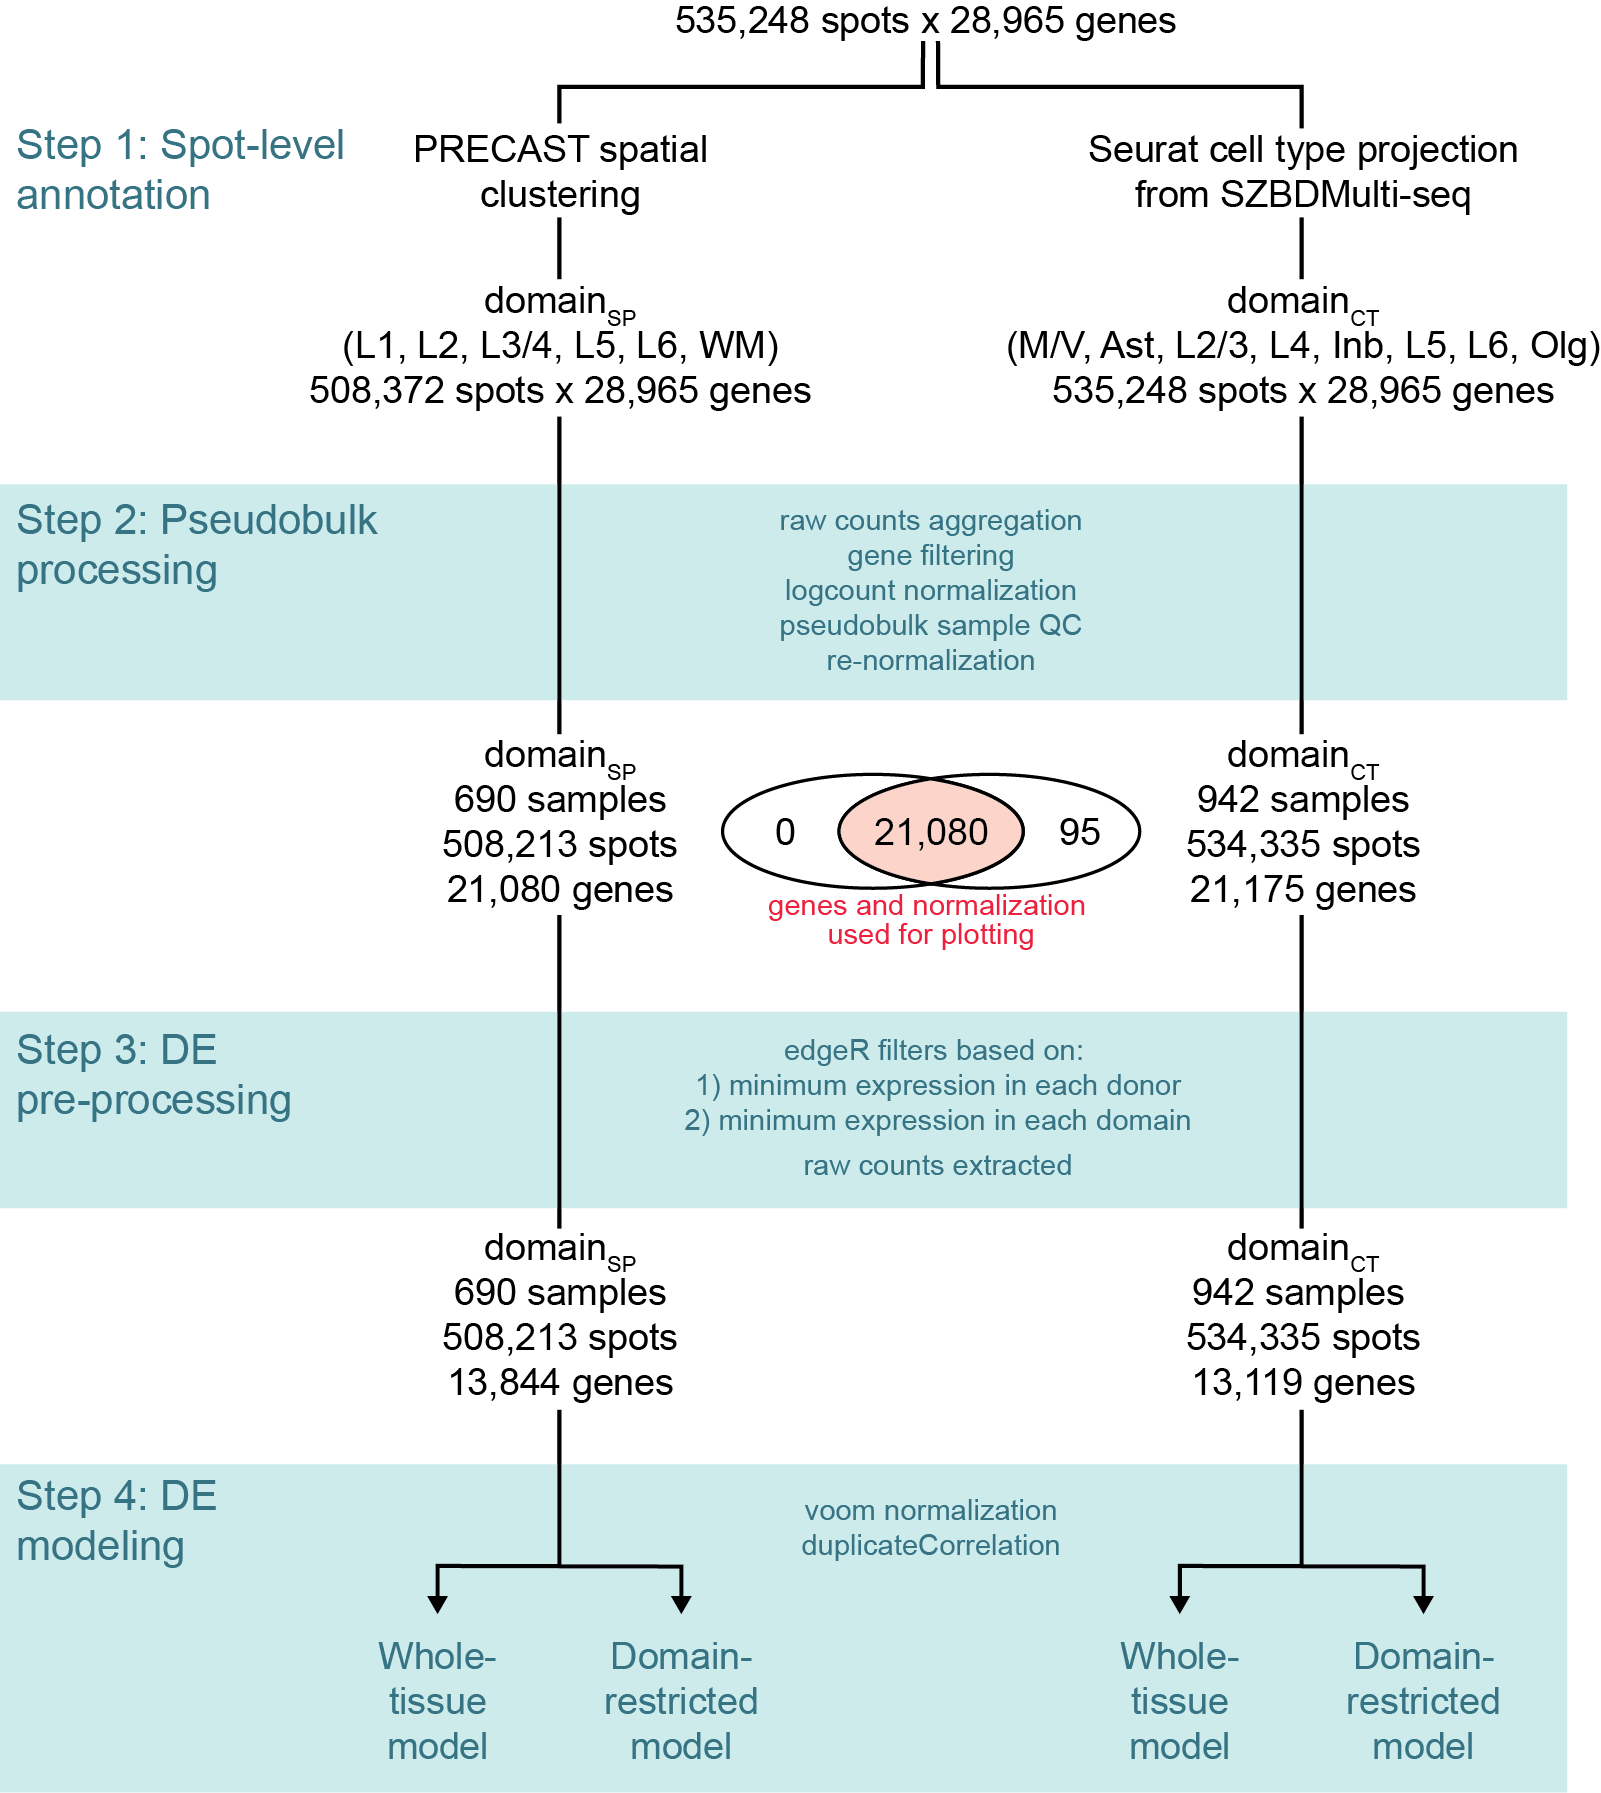
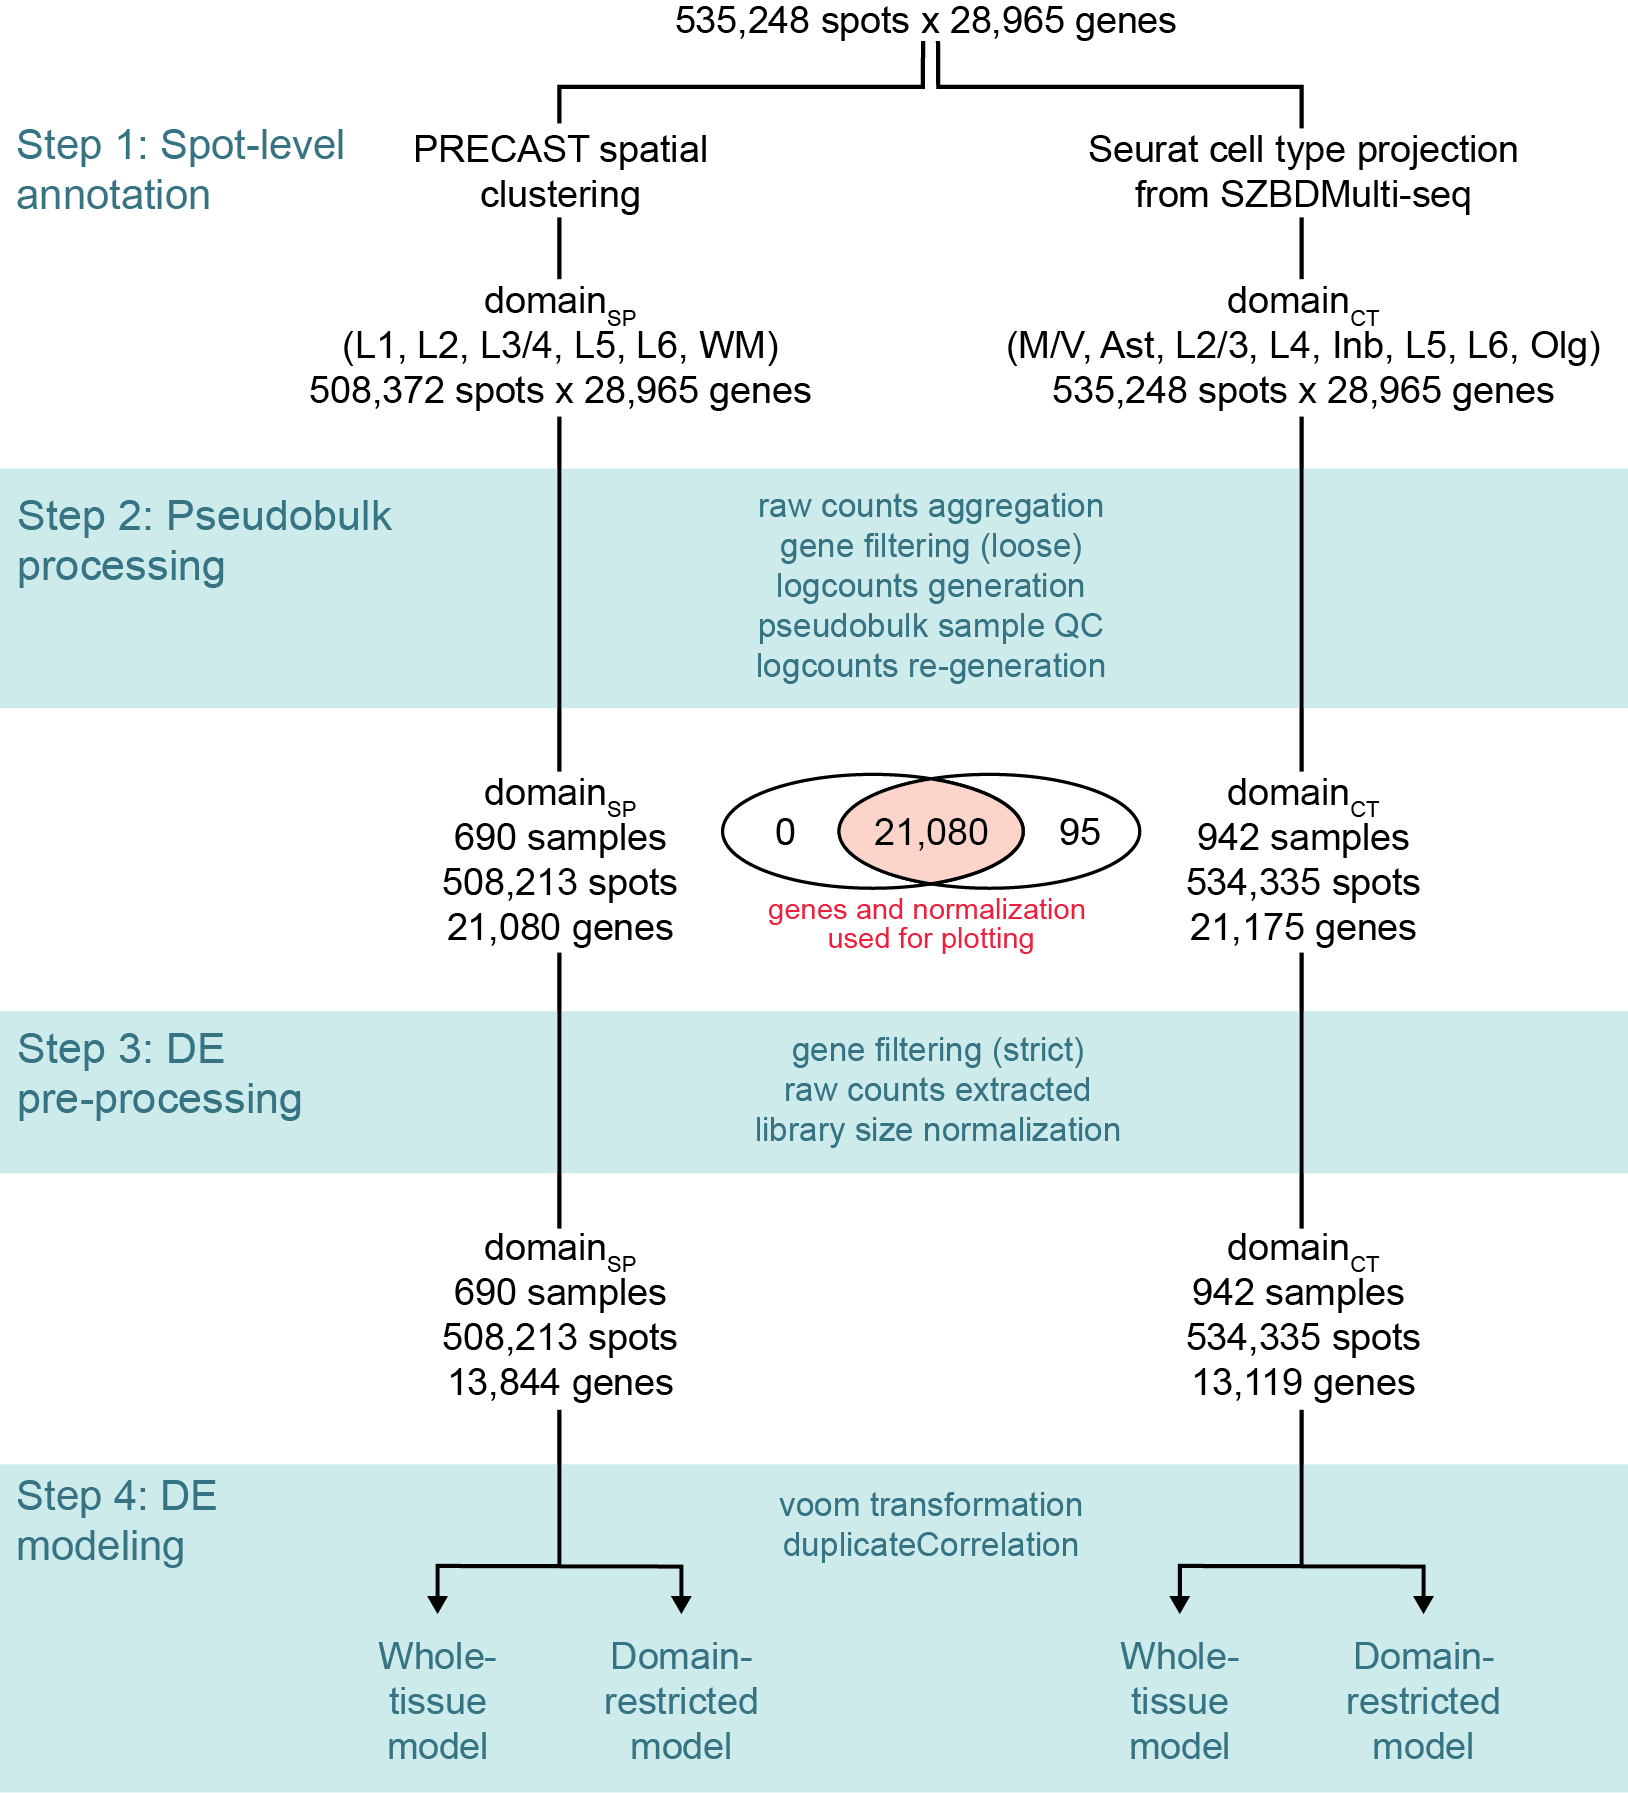
Update MBv shiny app ui, additional markdown files

diff --git a/MBv_companion_shiny/markdown/landingpage.md b/MBv_companion_shiny/markdown/landingpage.md
@@ -1,0 +1,11 @@
+### Study Design
+Major depressive disorder (MDD) and bipolar disorder (BD) exhibit both overlapping and distinct clinical features, including differences in sex prevalence and symptomatology, but how these similarities and differences are reflected at the molecular and cellular level in the human brain remains poorly understood. 
+
+We applied spatial transcriptomics (SRT) in the human dorsolateral prefrontal cortex (dlPFC) of 119 donors that were split into diagnostic groups of neurotypical control (NTC), major depressive disorder (MDD), and bipolar disorder (BD). Our donors were selected to be sex- and age-balanced. SRT was achieved with Visium which provides supra-cellular resolution (55um) sequencing linked with spot-specific barcodes that allow for spatial coordinates to be matched with the RNA expression matrix. 
+
+We used two complementary annotation strategies to extract the biological domains of the dlPFC from spot-level gene expression data. Spatial clustering provided domains that correspond to canonical dlPFC cytoarchitectural layers (domain~SP~). Label projection from snRNAseq cell types provided domains that correspond to major cell type groups (domain~CT~) and allow for characterization of trans-laminar cell types like inhibitory neurons. 
+
+We performed pseudobulking for both annotation strategies and used these pseudobulk samples as input for differential expression (DE) testing. Our implementation of two different models allowed us to test for diagnosis-by-sex group differences across the entire dlPFC tissue section (whole-tissue model) and within specific domains (domain-restricted model). The results of these tests are annotated on the violin plots in the **Pseudobulk Expression Plots** tab and browsable in Supplementary Tables 6 and 7 of our manuscript.
+
+Our DE results were used as filtering criteria several additional analyses that helped us to draw conclusions about how MDD and BD are impacted at the molecular and cellular levels in the dlPFC. The outcomes from co-expression modules, regulon analysis, eQTL, and colocalization analysis are not presented in this companion app, but are relevant to the downstream use of the DE results described here.
+

diff --git a/MBv_companion_shiny/markdown/methods_2.md b/MBv_companion_shiny/markdown/methods_2.md
@@ -1,0 +1,7 @@
+Pseudobulk datasets were generated for both the domain~SP~ and domain~CT~ annotation sets by aggregating the raw counts within each annotated domain within each donor. This created different numbers of pseudobulk samples between the two annotation strategies owing to the different number of domains labeled per donor (domain~SP~ *k*=6, domain~CT~ *k*=8).
+
+Prior to counts matrix normalization and transformation, we performed gene filtering. We removed genes from the mitochondrial genome (which helps with normalization) and we also removed some lowly expressed genes with <a href="https://rdrr.io/bioc/edgeR/man/filterByExpr.html" target="_blank">edgeR</a>. Slightly different sets of genes were identified as lowly expressed between the two annotation datasets, given the unique cell populations captured with the two strategies. At this stage many lowly expressed genes were retained because they were abundantly expressed in the dlPFC snRNAseq dataset we used (SZBDMulti-seq). This was necessary to obtain enrichment *t*-test statistics in our SRT pseudobulk that we used to compare with snRNAseq.
+
+Quality control (QC) was then performed on pseudobulk samples, and afterward raw counts were re-normalized since the removal of samples during QC slightly impacts `edgeR` normalization factor calculation and subsequent logcounts values. 
+
+After pseudobulk processing, 21,080 genes were shared across the domain~SP~ and domain~CT~ pseudobulk datasets. These genes, and the resulting logcounts, are available for plotting in the **Pseudobulk Expression Plots** tab. 

diff --git a/MBv_companion_shiny/markdown/methods_1.md b/MBv_companion_shiny/markdown/methods_1.md
@@ -1,0 +1,5 @@
+Following spot level quality control, our dataset consisted of an RNA expression matrix for 535,248 SRT spots (observations) and RNA 28,965 genes (features).
+
+Biological domains from the dlPFC were annotated with two parallel strategies. <a href="https://github.com/feiyoung/PRECAST" target="_blank">PRECAST</a> spatial clustering was used to define spatial domains (**domain~SP~**) that mirrored canonical dlPFC cytoarchitectural lamina. This strategy identified spatially contiguous regions with low UMI counts that clustered separately and were removed from downstream analyses. Domain~SP~ consisted of the following annotations: layers (L) L1, L2, L3/4, L5, L6, and white matter (WM). 
+
+The second annotation strategy used existing snRNAseq data (<a href="https://www.science.org/doi/10.1126/science.adi5199" target="_blank">SZBDMulti-seq</a> dataset) and <a href="https://satijalab.org/seurat/reference/transferdata" target="_blank">Seurat label projection</a> to define cell type-driven domains (**domain~CT~**) that captured enriched signatures for cell types that often span across canonical dlPFC lamina. Domain~CT~ consisted of the following annotations: microglia and vascular cells (M/V), astrocytes (Ast), L2/3, L4, inhibitory neurons (Inb), L5, L6, and oligodendrocytes (Olg). It is important to note that these labels reflect spot-level transcriptional patterns and are not direct assessments of the abundance of the described cells within the SRT spots.

diff --git a/MBv_companion_shiny/markdown/methods_4.md b/MBv_companion_shiny/markdown/methods_4.md
@@ -1,0 +1,4 @@
+We used <a href="https://bioconductor.org/packages/release/bioc/html/limma.html" target="_blank">limma</a> linear models for DE analysis. Within the `limma` framework, we used <a href="https://rdrr.io/bioc/limma/man/voom.html" target="_blank">voom</a> to transform count data, which differs from simple log~2~(CPM) transformation and is preferred for DE modeling when library sizes vary between samples (as is the case for pseudobulk samples from different domains).
+ 
+For each pseudobulk annotation dataset, we implemented two different linear models. The **whole-tissue model** tested for diagnosis-by-sex differences across the entire tissue section while adjusting for differences in expression due to domain annotations (`~ diagnosis-sex group + domain + other covariates`). The **domain-restricted model** evaluated diagnosis-by-sex differences within individual spatial domains (`~ diagnosis-sex-domain group + other covariates`). For each model, we evaluated gene-level significance of both the omnibus *F*-test (to test for differences in means across all groups) and *t*-test (to test for differences between two groups as a single contrast). Therefore in our study differentially expressed genes (DEGs) required an *F*-test adj. *p* < 0.05 and a *t*-test adj. *p* < 0.05.
+

diff --git a/MBv_companion_shiny/markdown/methods_5.md b/MBv_companion_shiny/markdown/methods_5.md
@@ -1,0 +1,5 @@
+The gene expression values that we see in the violin plots are not the same as what the statistical model “sees”.
+
+Both the whole-tissue and domain-restricted DE model designs contain several covariates (donor age, the number of spots per pseudobulk sample, and a continuous metric of technical variation). Inclusion of these covariates helps to isolate the changes in gene expression attributable to our independent variables of diagnosis and sex. Although it is possible to estimate what the model "sees" by regress out the influence of the covariates and producing residualized expression values, in our study we chose to visualize the un-altered logcount expression. 
+
+Additionally, the RNAseq information from each of our donors was stratified into different pseudobulk samples based on the domain annotation, creating quasi-repeated measurements from each donor. We utilized the <a href="https://rdrr.io/bioc/limma/man/dupcor.html" target="_blank">duplicateCorrelation</a> utility of `limma` which treats donor identity as a random effect. This too changes what the model “sees” when fitting gene expression, but is impossible to represent visually when plotting.

diff --git a/MBv_companion_shiny/markdown/methods_3.md b/MBv_companion_shiny/markdown/methods_3.md
@@ -1,0 +1,4 @@
+Prior to DE modeling, we removed genes that were lowly expressed in SRT but had been retained due to high expression in snRNAseq. This was accomplished with <a href="https://rdrr.io/bioc/edgeR/man/filterByExpr.html" target="_blank">edgeR</a> filters, taking the intersection of genes that passed minimum expression criteria based on donor-level and domain-level assessment. Library size normalization factors were re-generated based only on genes that passed the filtering criteria. Raw counts and <a href="https://rdrr.io/bioc/edgeR/man/calcNormFactors.html" target="_blank">edgeR normalization factors</a> were passed as input for DE models.
+
+Despite violin plots of gene expression being available for 21,080 genes, only the subset of genes included in DE modeling have statistics available. In lieu of *F*-test statistics, genes that were not included in DE models will appear with the disclaimer “gene not run in model, excluded by edgeR filters”. Again, owing to the differences in domains, a small number of genes were included in the domain~SP~ DE models and not the domain~CT~ DE models, and vice versa.
+

diff --git a/MBv_companion_shiny/markdown/methods_6.md b/MBv_companion_shiny/markdown/methods_6.md
@@ -1,0 +1,5 @@
+Aggregated raw RNAseq counts for each pseudobulk sample are normalized by library size, we used effective library sizes calculated with <a href="https://rdrr.io/bioc/edgeR/man/calcNormFactors.html" target="_blank">edgeR::calcNormFactors</a>. Normalized counts were then transformed to counts per million (CPM), and a constant is added to avoid subsequent log~2~ transformation of zero values.
+
+Since the domain~SP~ and domain~CT~ pseudobulk annotation datasets were processed separately, this resulted in the lowest logcount expression measurements corresponding to different non-zero values. In both cases, this minimum measurement identifies un-detected expression (raw count of zero). 
+
+These differences do not impact DE results. As previously stated, DE models utilized <a href="https://rdrr.io/bioc/limma/man/voom.html" target="_blank">voom</a> transformation, which differs from log~2~(CPM) transformation. However, because domain~SP~ and domain~CT~ pseudobulk datasets were tested with separate DE models, any minor technical differences in minimum expression are inconsequential to DE results.
